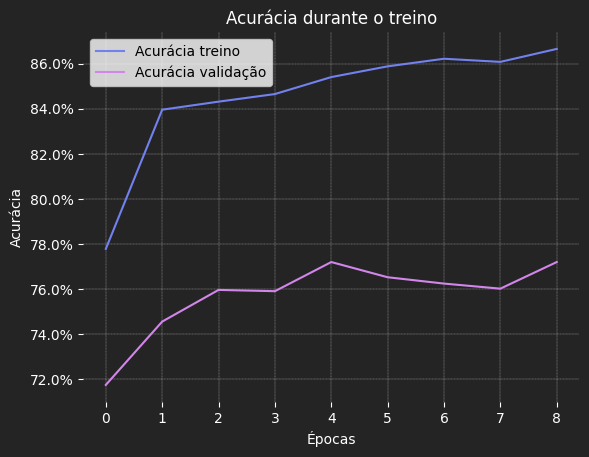
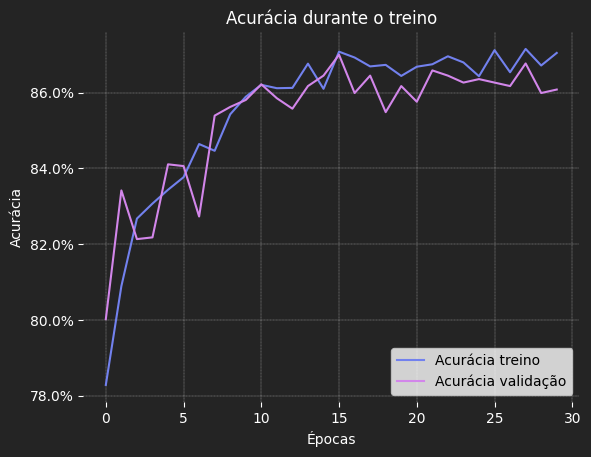
new model

diff --git a/notebooks/README.md b/notebooks/README.md
@@ -30,7 +30,7 @@ Modelo:
 
 ## Resultados
 
-Treino utilizando o dataset [Melanoma Cancer Image Dataset](https://www.kaggle.com/datasets/bhaveshmittal/melanoma-cancer-dataset?select=train)
+Treino utilizando o dataset [Melanoma Cancer Image Dataset](https://www.kaggle.com/datasets/bhaveshmittal/melanoma-cancer-dataset) + [Skin Cancer Malignant vs. Benign](https://www.kaggle.com/datasets/fanconic/skin-cancer-malignant-vs-benign)
 
 ### Acurácia
 
